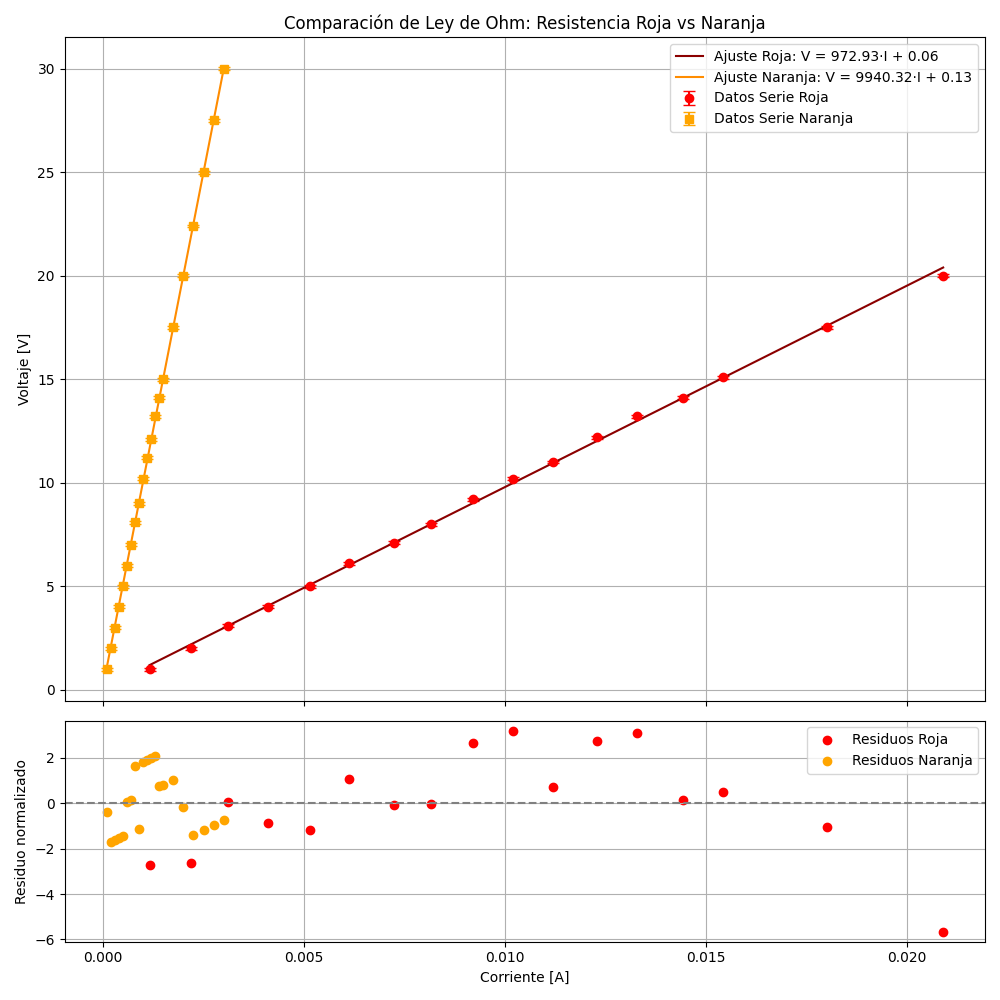
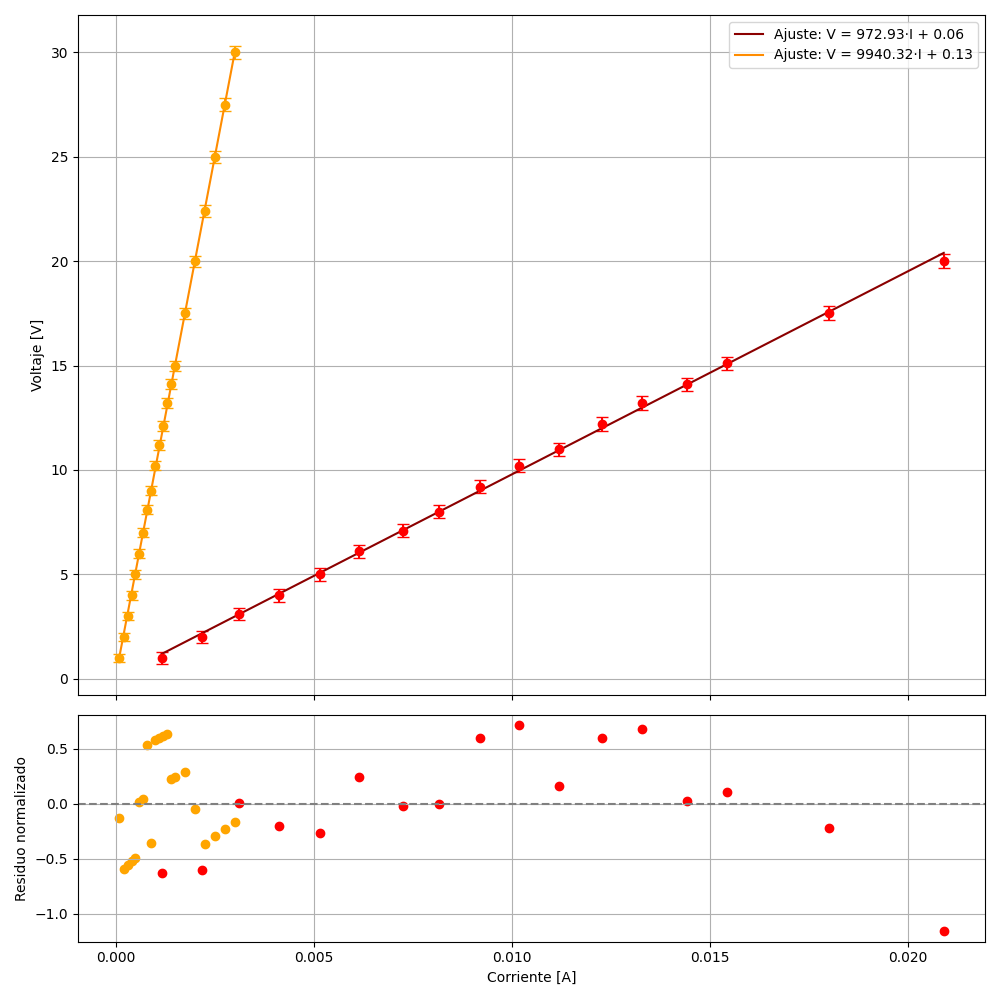
final

diff --git a/exp1_1.py b/exp1_1.py
@@ -2,50 +2,47 @@ import pandas as pd
 import matplotlib.pyplot as plt
 import numpy as np
 
-data = pd.read_csv( 'serie_naranja.csv' )
+# Leer datos
+data = pd.read_csv('serie_naranja.csv')
 data.columns = [col.strip().lower().replace(" ", "_") for col in data.columns]
 
-corriente_mA = data['ma']      
-voltaje = data['voltage']        
-
+# Extraer variables
+corriente_mA = data['ma']
+voltaje = data['voltage']
 corriente_A = corriente_mA / 1000
+
+# Ajuste lineal
 a, b = np.polyfit(corriente_A, voltaje, 1)
-error_y = 0.07
-I_fit = np.linspace(min(corriente_A), max(corriente_A), 100)
-V_fit = a * I_fit + b
+R_ajustada = a
+R_multimetro = 9880
+R_colorimetria = 10000
 
-plt.figure(figsize=(8, 6))
-plt.errorbar(corriente_A, voltaje, yerr=error_y, fmt='o', capsize=4, label='Datos experimentales')
-plt.plot(I_fit, V_fit, '-', label=f'Ajuste lineal: V = {a:.2f}·I + {b:.2f}')
-plt.xlabel('Corriente [A]')
-plt.ylabel('Voltaje [V]')
-plt.title('Validación de la Ley de Ohm - Resistencia Serie Naranja')
-plt.legend()
-plt.grid(True)
-plt.tight_layout()
-plt.savefig("grafico_ley_ohm.png")
-plt.show()
+# Errores instrumentales para el ajuste lineal
+V_mean = np.mean(voltaje)
+I_mean = np.mean(corriente_A)
 
-R_ajustada = a  
-R_multimetro = 9880  
-R_colorimetria = 10000  
+delta_V = np.sqrt((0.005 * V_mean + 0.02)**2 + (0.005 * V_mean + 0.01)**2)  # multímetro + fuente
+delta_I = 0.01 * I_mean + 0.00002  # multímetro (1% + 0.02 mA → en A)
+rel_error_R = np.sqrt((delta_V / V_mean)**2 + (delta_I / I_mean)**2)
+error_ajuste = R_ajustada * rel_error_R
 
-error_colorimetrico = R_colorimetria * 0.05 
-error_abs = abs(R_ajustada - R_multimetro)
+# Otros errores
+error_colorimetrico = R_colorimetria * 0.05
+error_multimetro = 6
+
+# Armado de gráfico
 labels = ['Valor Nominal', 'Multímetro', 'Ajuste lineal']
 resistencias = [R_colorimetria, R_multimetro, R_ajustada]
-errores = [error_colorimetrico, 6, error_abs] 
+errores = [error_colorimetrico, error_multimetro, error_ajuste]
 x_pos = np.arange(len(labels))
 
 fig, ax = plt.subplots(figsize=(8, 6))
 ax.errorbar(x_pos, resistencias, yerr=errores, fmt='o', capsize=10,
-            linestyle='None', color='darkred')
+            linestyle='None', color='darkorange')
 ax.set_xticks(x_pos)
 ax.set_xticklabels(labels)
 ax.set_ylabel('Resistencia [Ω]')
-ax.set_title('Comparación de métodos de medición de resistencia')
-
 plt.tight_layout()
 plt.grid(True, linestyle='--', alpha=0.6)
-plt.savefig("grafico_comparacion_resistencias.png")
+plt.savefig("grafico_comparacion_resistencias_naranja.png")
 plt.show()

diff --git a/exp1_2.py b/exp1_2.py
@@ -2,40 +2,38 @@ import pandas as pd
 import matplotlib.pyplot as plt
 import numpy as np
 
-data = pd.read_csv( 'serie_rojo.csv' )
+# Leer datos
+data = pd.read_csv('serie_rojo.csv')
 data.columns = [col.strip().lower().replace(" ", "_") for col in data.columns]
 
-corriente_mA = data['ma']        
-voltaje = data['voltage']        
+# Extraer variables
+corriente_mA = data['ma']
+voltaje = data['voltage']
 corriente_A = corriente_mA / 1000
 
-a, b = np.polyfit(corriente_A, voltaje, 1) 
-error_y = 0.07  
-I_fit = np.linspace(min(corriente_A), max(corriente_A), 100)
-V_fit = a * I_fit + b
+# Ajuste lineal
+a, b = np.polyfit(corriente_A, voltaje, 1)
+R_ajustada = a
+R_multimetro = 980
+R_colorimetria = 1000
 
-plt.figure(figsize=(8, 6))
-plt.errorbar(corriente_A, voltaje, yerr=error_y, fmt='o', capsize=4, label='Datos experimentales')
-plt.plot(I_fit, V_fit, '-', label=f'Ajuste lineal: V = {a:.2f}·I + {b:.2f}')
-plt.xlabel('Corriente [A]')
-plt.ylabel('Voltaje [V]')
-plt.title('Validación de la Ley de Ohm - Resistencia Serie Roja')
-plt.legend()
-plt.grid(True)
-plt.tight_layout()
-plt.savefig("grafico_ley_ohm_rojo.png")
-plt.show()
+# Errores instrumentales para el ajuste lineal
+V_mean = np.mean(voltaje)
+I_mean = np.mean(corriente_A)
 
-R_ajustada = a 
-R_multimetro = 980 
-R_colorimetria = 1000 
+delta_V = np.sqrt((0.005 * V_mean + 0.02)**2 + (0.005 * V_mean + 0.01)**2)  # multímetro + fuente
+delta_I = 0.01 * I_mean + 0.00002  # multímetro (1% + 0.02 mA → en A)
+rel_error_R = np.sqrt((delta_V / V_mean)**2 + (delta_I / I_mean)**2)
+error_ajuste = R_ajustada * rel_error_R
 
-error_colorimetrico = R_colorimetria * 0.05 
-error_abs = abs(R_ajustada - R_multimetro)
+# Otros errores
+error_colorimetrico = R_colorimetria * 0.05
+error_multimetro = 6
 
+# Armado de gráfico
 labels = ['Valor Nominal', 'Multímetro', 'Ajuste lineal']
 resistencias = [R_colorimetria, R_multimetro, R_ajustada]
-errores = [error_colorimetrico, 6, error_abs] 
+errores = [error_colorimetrico, error_multimetro, error_ajuste]
 x_pos = np.arange(len(labels))
 
 fig, ax = plt.subplots(figsize=(8, 6))
@@ -44,9 +42,7 @@ ax.errorbar(x_pos, resistencias, yerr=errores, fmt='o', capsize=10,
 ax.set_xticks(x_pos)
 ax.set_xticklabels(labels)
 ax.set_ylabel('Resistencia [Ω]')
-ax.set_title('Comparación de métodos de medición de resistencia')
-
 plt.tight_layout()
 plt.grid(True, linestyle='--', alpha=0.6)
-plt.savefig("grafico_comparacion_resistencias_rojo.png") 
+plt.savefig("grafico_comparacion_resistencias_rojo.png")
 plt.show()

diff --git a/exp2.py b/exp2.py
@@ -6,7 +6,7 @@ df_multi = pd.read_csv('resistencias_serie_multi.csv')
 df_multi.columns = [col.strip().lower().replace(" ", "_") for col in df_multi.columns]
 
 resistencias_mom = df_multi["mom"]
-error_absoluto_individual = 0.05  # 5% de 1 MΩ
+error_absoluto_individual = resistencias_mom * 0.05  # 5% de cada medición
 x_pos = np.arange(len(resistencias_mom))
 
 fig, ax = plt.subplots(figsize=(8, 6))
@@ -14,7 +14,6 @@ ax.errorbar(x_pos, resistencias_mom, yerr=error_absoluto_individual, fmt='o', ca
 ax.set_xticks(x_pos)
 ax.set_xticklabels([f"R{i+1}" for i in x_pos])
 ax.set_ylabel('Resistencia [MΩ]')
-ax.set_title('Medición individual de resistencias (multímetro)')
 
 plt.grid(True, linestyle='--', alpha=0.6)
 plt.tight_layout()

diff --git a/exp1.py b/exp1.py
@@ -11,7 +11,7 @@ y = data['voltaje_multimetro']
 a, b = np.polyfit(x, y, 1)
 x_fit = np.linspace(min(x), max(x), 100)
 y_fit = a * x_fit + b
-error_sist_voltimetro = round(abs(b) + 0.01, 3) 
+error_sist_voltimetro = (0.005 * y) + 0.02
 
 plt.figure(figsize=(8, 6))
 plt.errorbar(x, y, yerr=error_sist_voltimetro, fmt='o', capsize=4, label='Datos experimentales ± error')
@@ -27,4 +27,4 @@ plt.show()
 
 print(f"Pendiente (a): {a:.3f}")
 print(f"Offset (b): {b:.3f}")
-print(f"Error sistemático sugerido para barras de error en voltaje: ±{error_sist_voltimetro:.3f} V")
+print(f"Ejemplo de barra de error (primer punto): ±{error_sist_voltimetro.iloc[0]:.3f} V")
